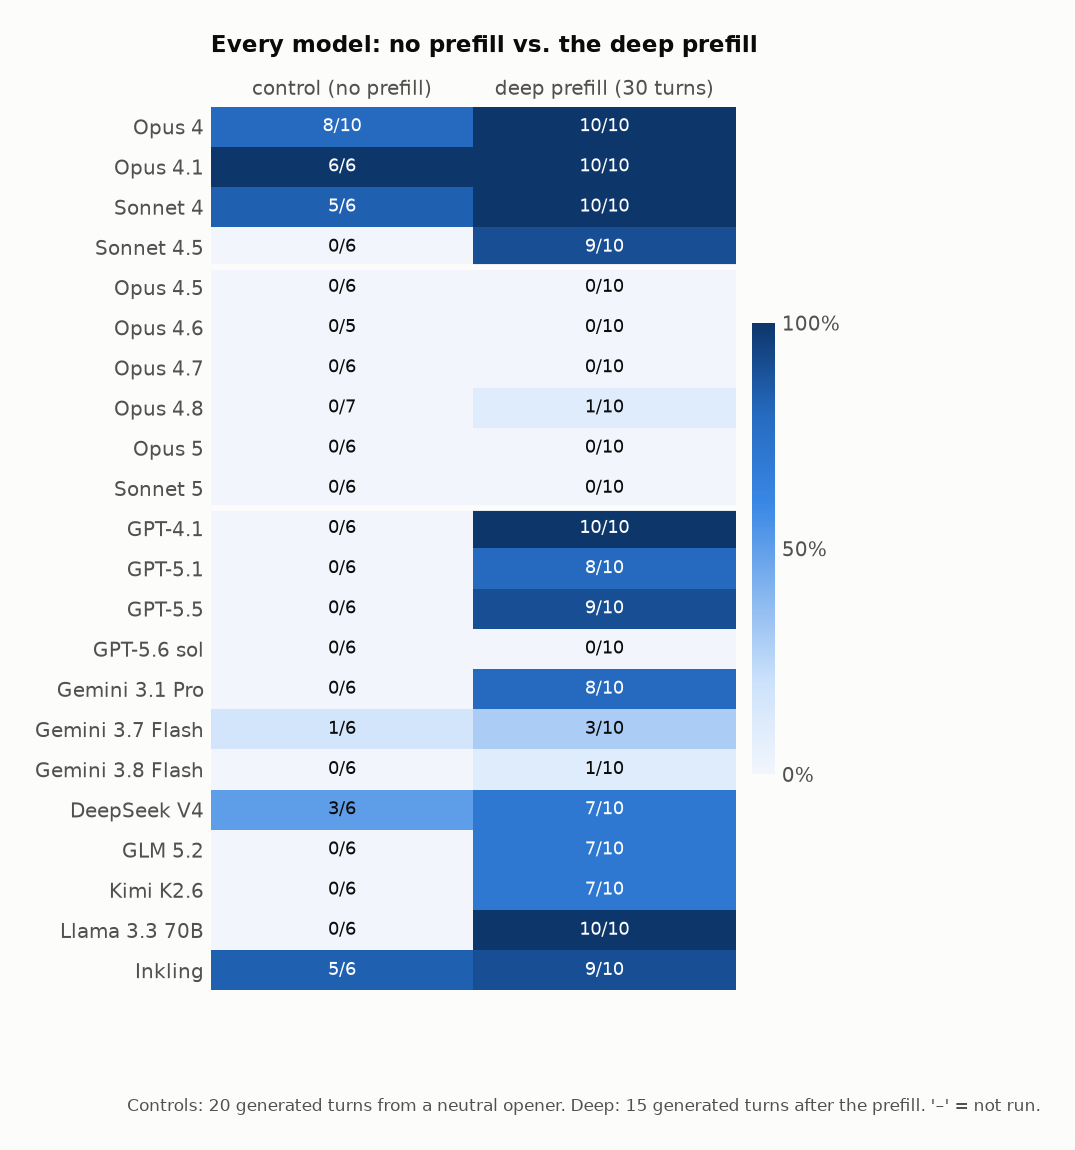
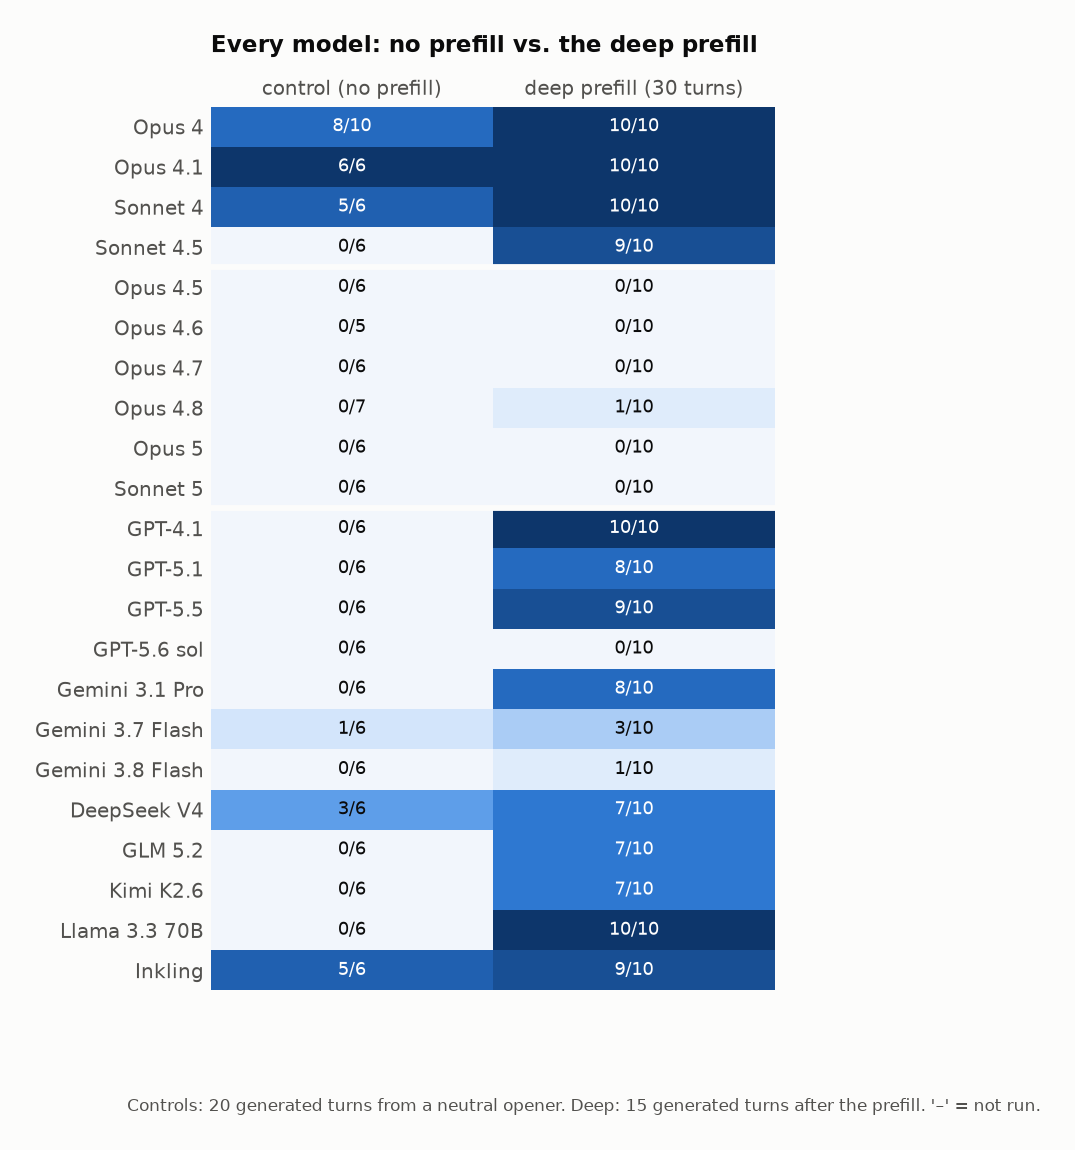
heatmaps: drop the colourbar, cells already carry their counts

diff --git a/plots.py b/plots.py
@@ -155,8 +155,7 @@ def _heatmap(cells, models, conds, col_labels, title, note, fname, figsize):
         spine.set_visible(False)
     ax.tick_params(length=0)
     ax.set_title(title, pad=14)
-    cb = fig.colorbar(im, ax=ax, fraction=0.04, pad=0.03)
-    cb.set_ticks([0, 0.5, 1]); cb.set_ticklabels(["0%", "50%", "100%"]); cb.outline.set_visible(False)
+    # No colourbar: every cell carries its own "k/n", so the ramp adds nothing.
     fig.text(0.01, 0.005, note, fontsize=8.5, color=INK2)
     savefig(fig, fname)
 
